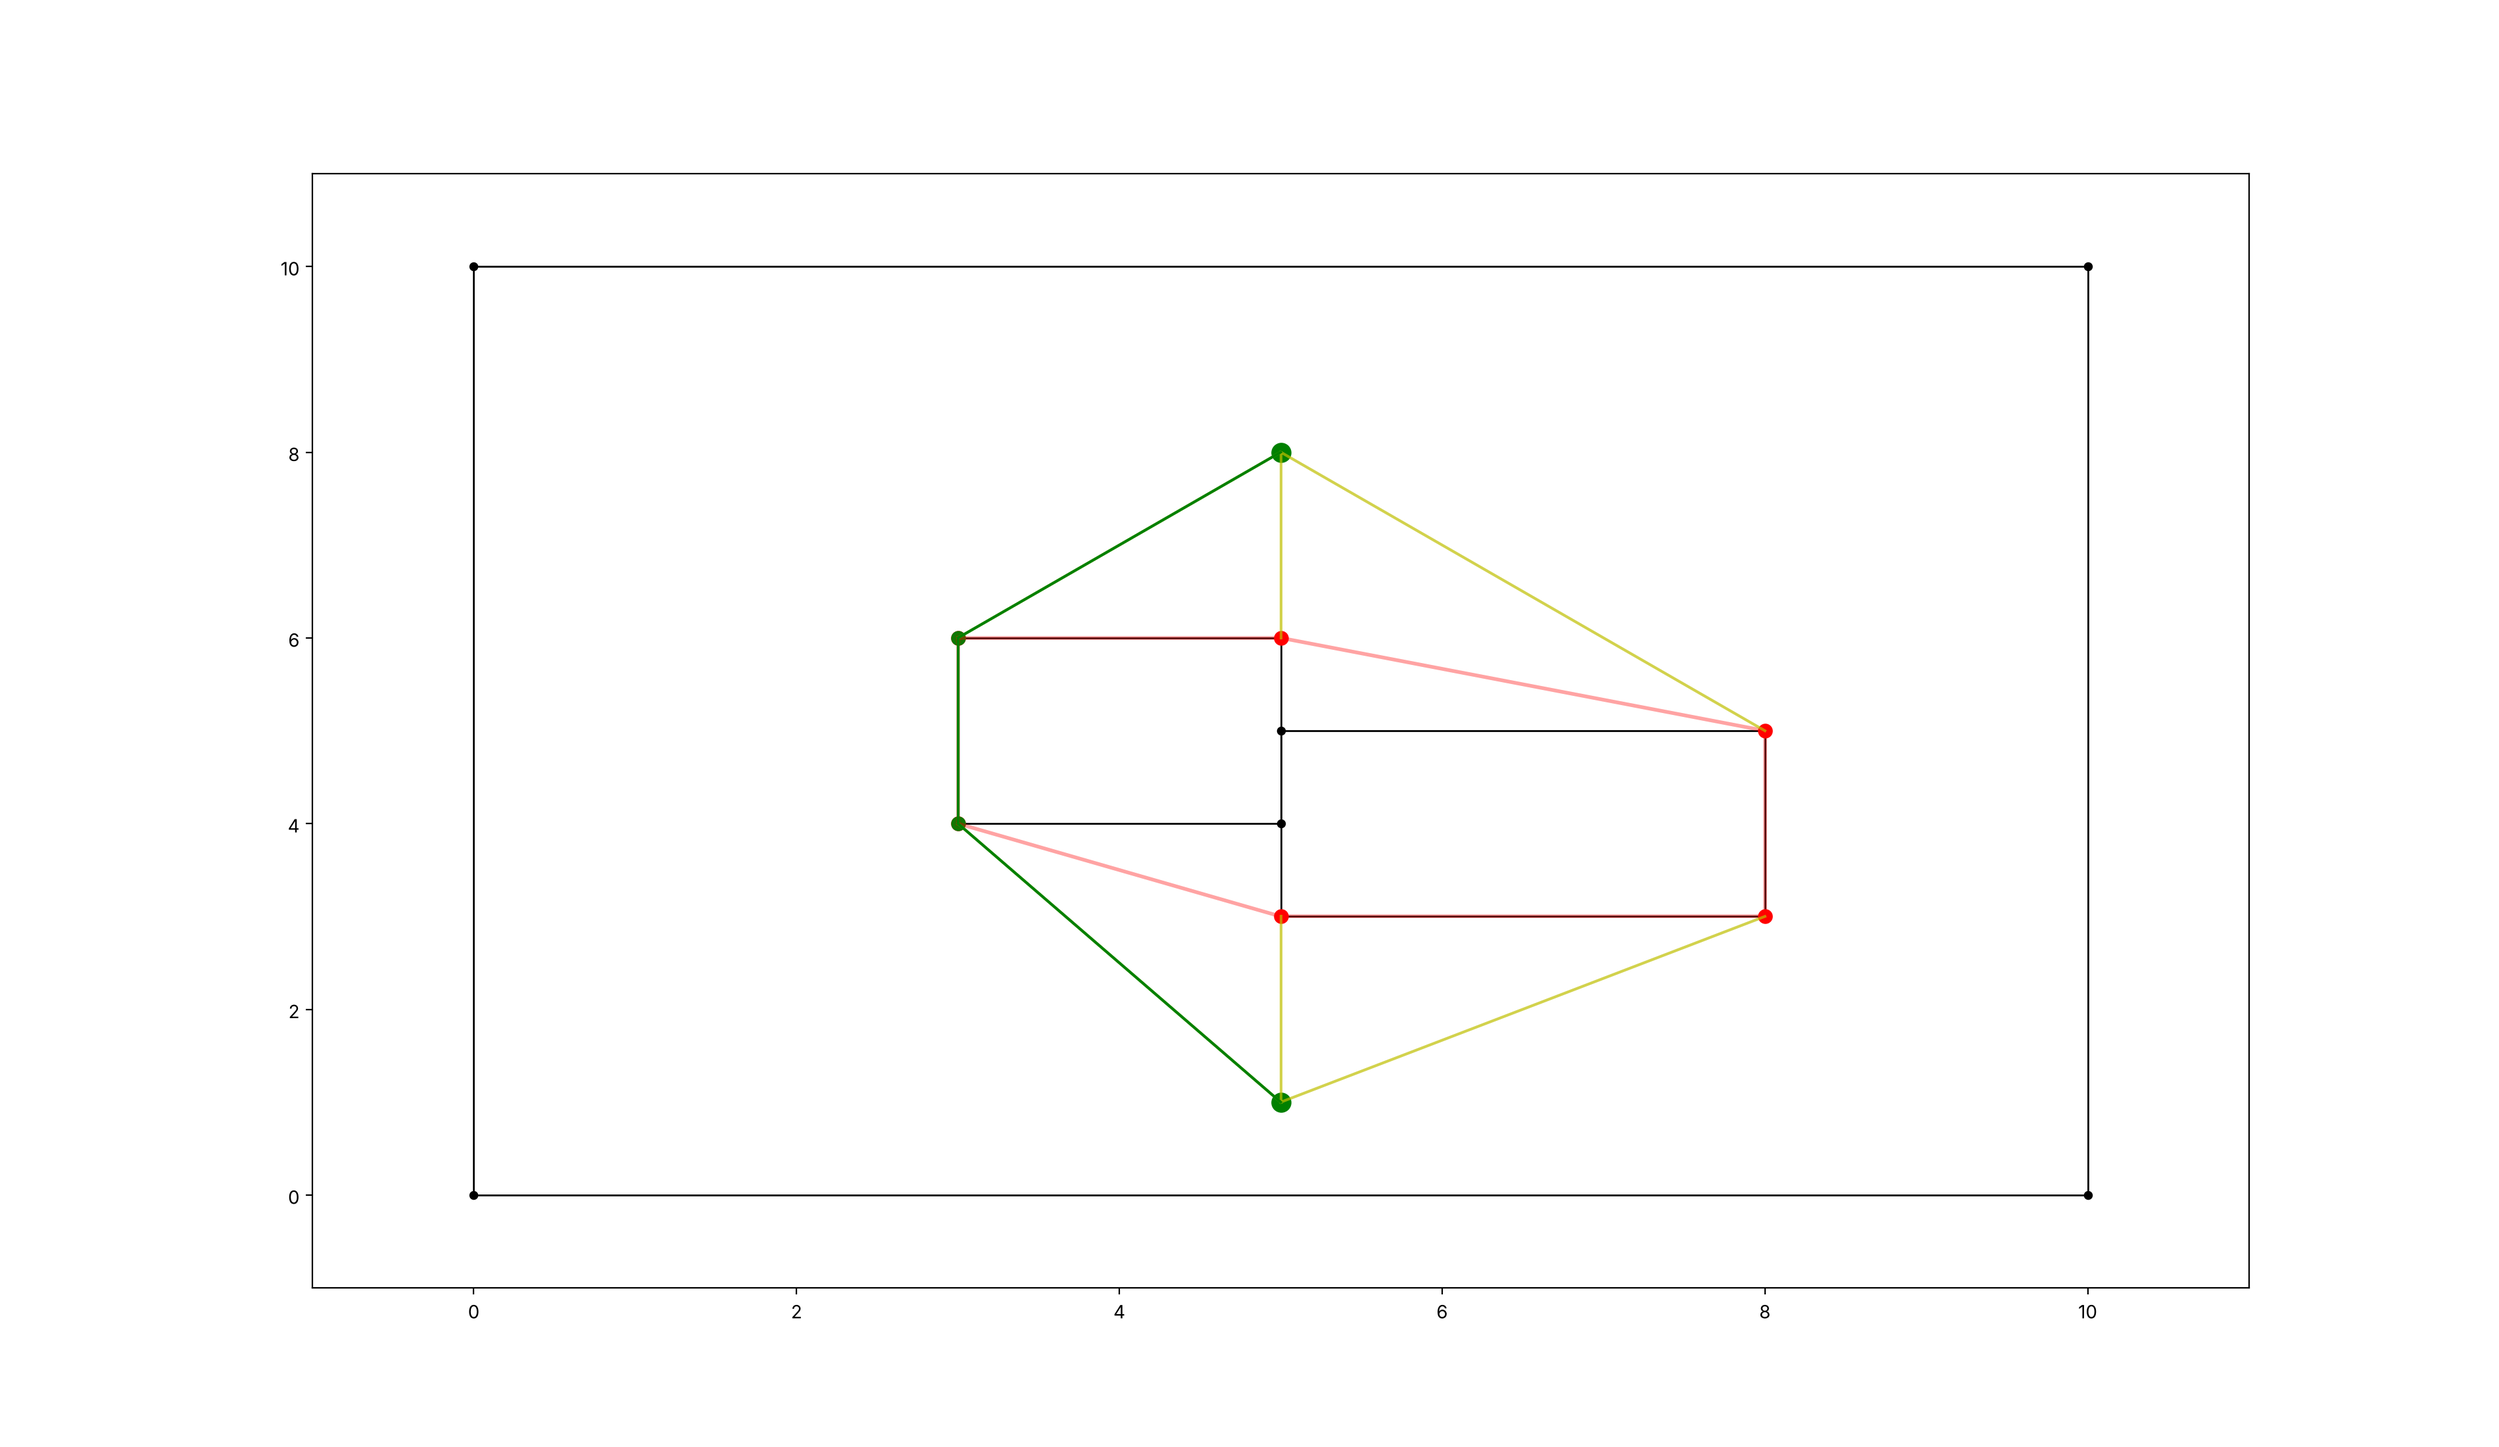
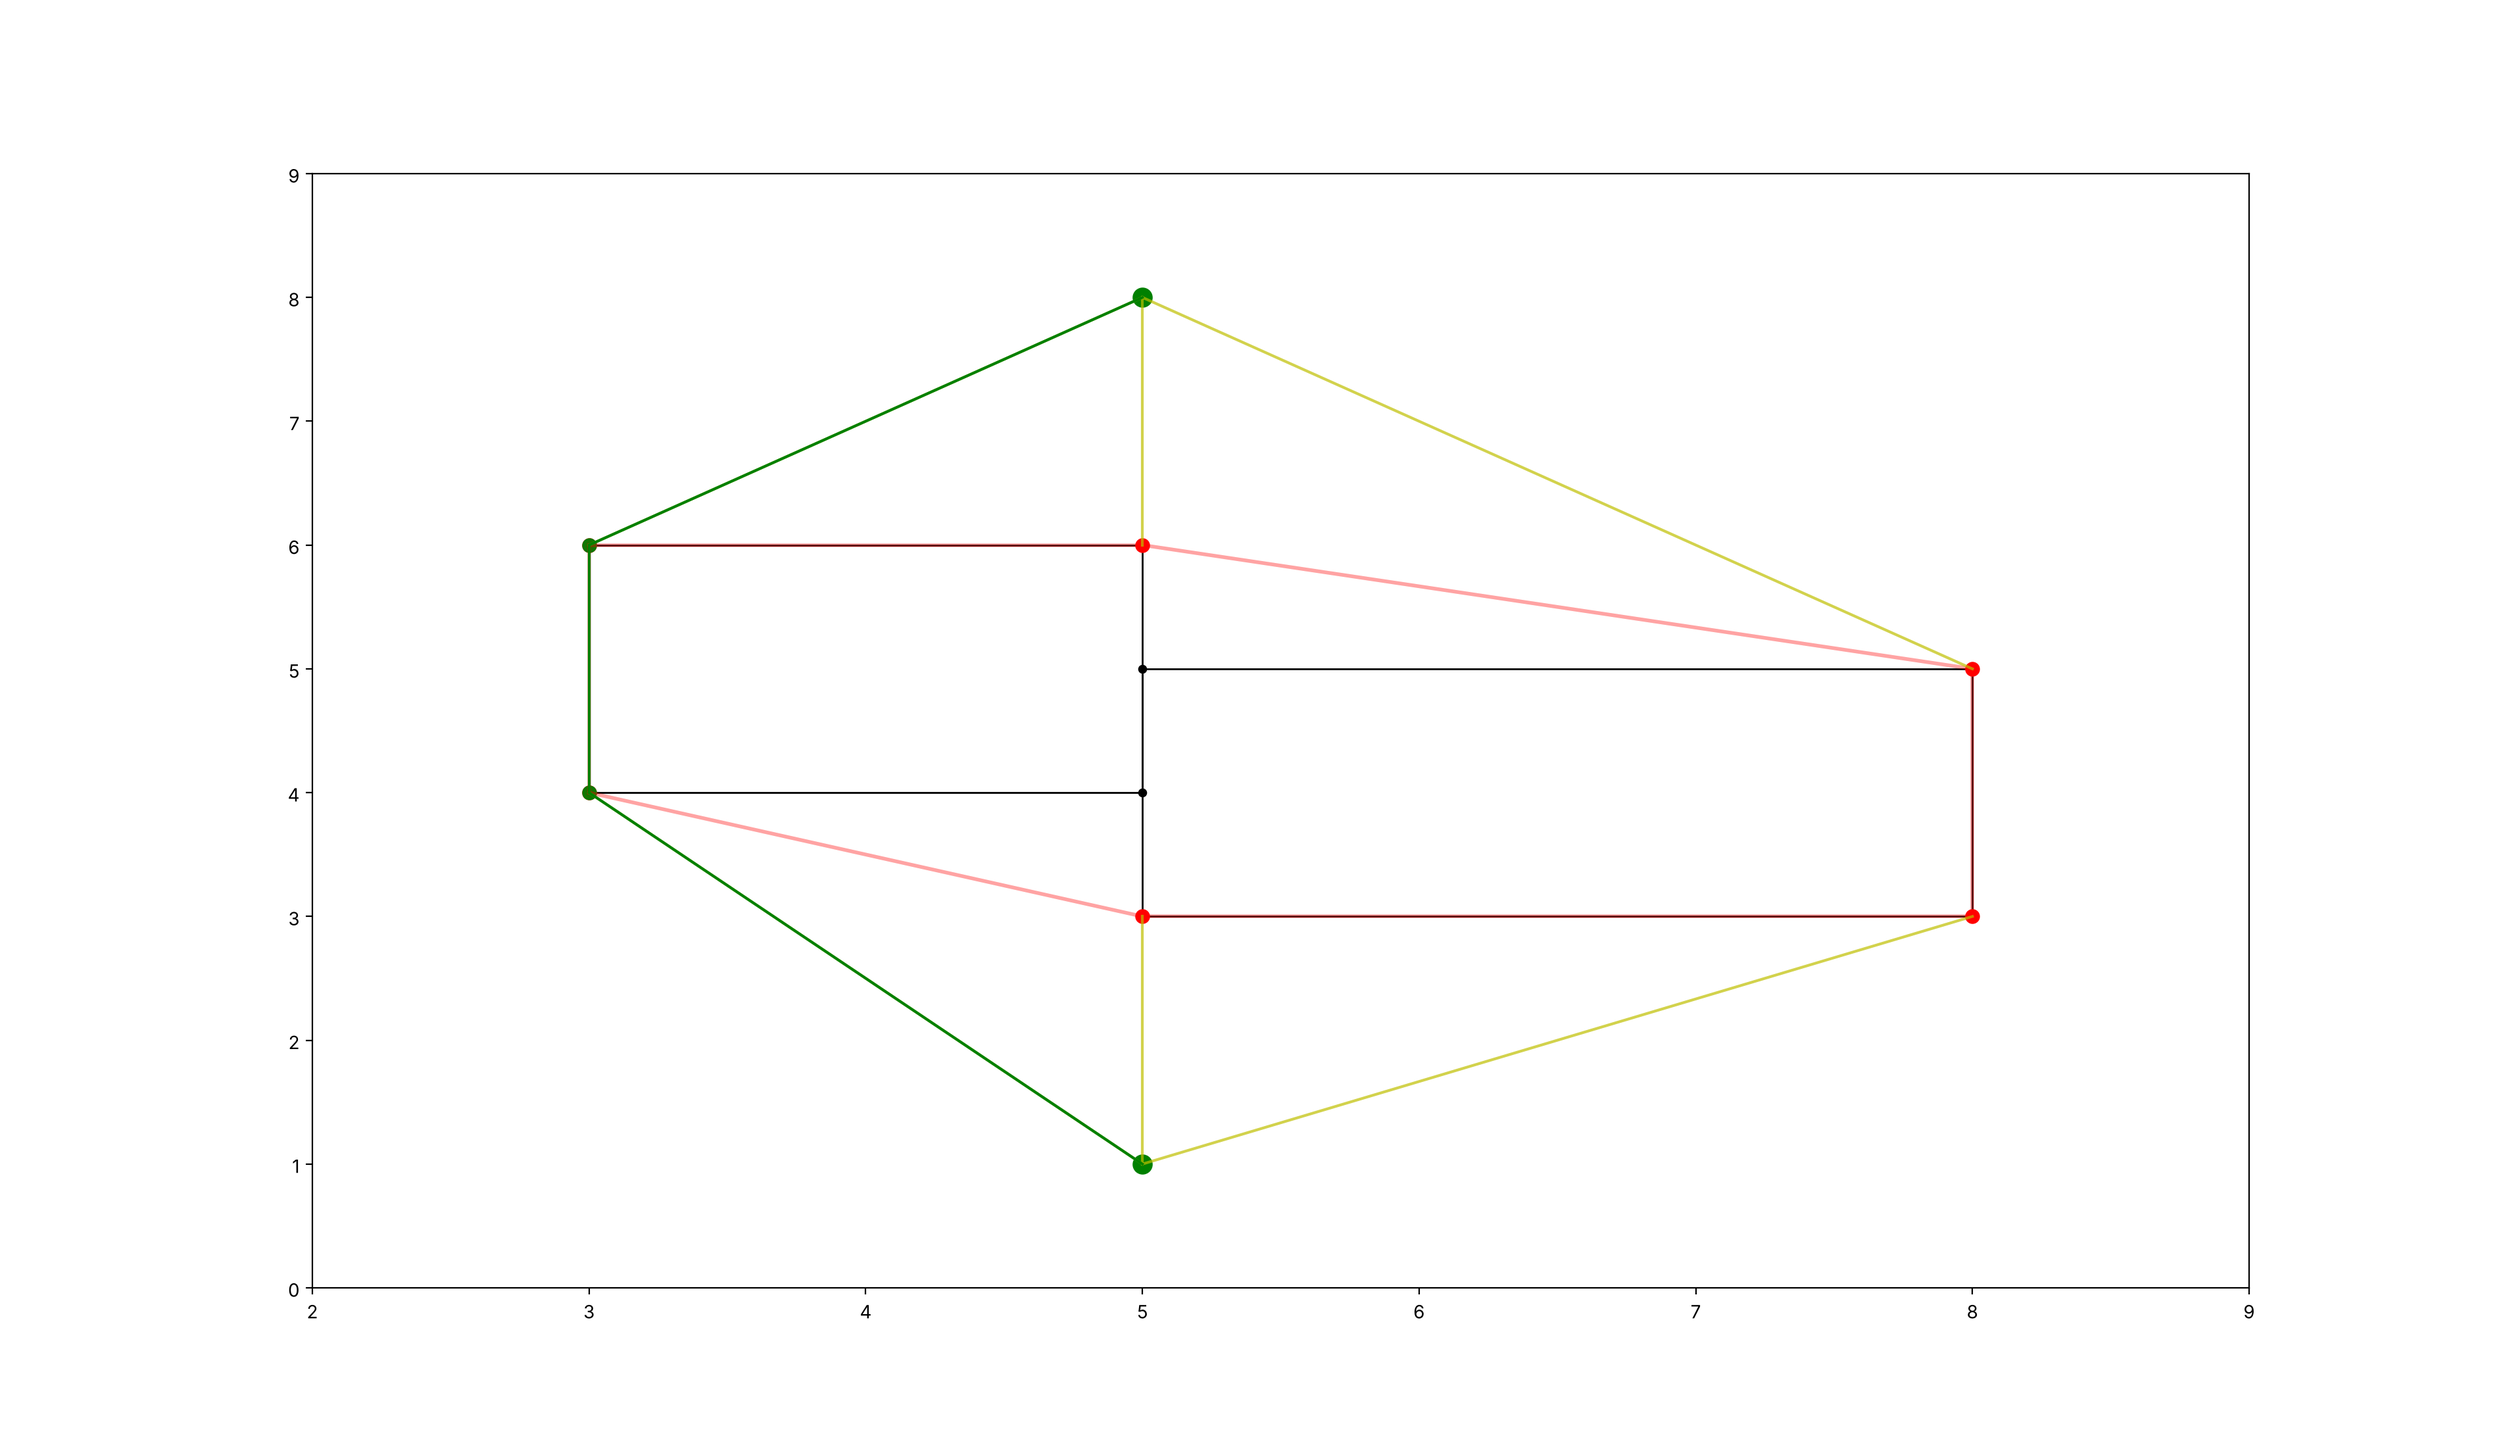
Address review findings, unbounded examples in the docs figures
- free_wedges(): a polygon with only zero-width spikes at a point blocks
  their rays only, also for the boundary (previously the boundary blocked
  every direction at such a point)
- filter_visible(): compute the distances of the check points once
- search(): look up the contact points of start and goal once per query
- one get_neighbour_idxs() (utils_numba) instead of two copies
- changelog: pickles from earlier versions must be recreated
- docs: the figures of touching holes use unbounded environments,
  added a figure for a vertex touching an edge

Claude-Session: https://claude.ai/code/session_01E3ETDsrFwGUoQi6D4QXY5i

diff --git a/extremitypathfinder/contacts.py b/extremitypathfinder/contacts.py
@@ -25,7 +25,7 @@ from dataclasses import dataclass, field
 
 import numpy as np
 
-from extremitypathfinder.utils_numba import _compute_repr_n_dist
+from extremitypathfinder.utils_numba import _compute_repr_n_dist, get_neighbour_idxs
 
 Wedge = tuple[float, float]
 # polygon index, angle representation of the rays to the previous and the next vertex,
@@ -125,13 +125,6 @@ def _find_edges_through_points(
     return edges_through
 
 
-def _neighbours(
-    i: int, vertex_edge_idxs: np.ndarray, edge_vertex_idxs: np.ndarray
-) -> tuple[int, int]:
-    edge_idx1, edge_idx2 = vertex_edge_idxs[i]
-    return int(edge_vertex_idxs[edge_idx1, 0]), int(edge_vertex_idxs[edge_idx2, 1])
-
-
 def _incidences(
     point: np.ndarray,
     vertex_idxs: list[int],
@@ -144,7 +137,9 @@ def _incidences(
     # vertices: the rays point to the previous and to the next vertex
     # edges passing through: the rays point to the start and to the end of the edge
     # in both cases the free side (left of the edges) reaches counter clockwise from the second to the first ray
-    pairs = [_neighbours(i, vertex_edge_idxs, edge_vertex_idxs) for i in vertex_idxs]
+    pairs = [
+        get_neighbour_idxs(i, vertex_edge_idxs, edge_vertex_idxs) for i in vertex_idxs
+    ]
     pairs += [tuple(int(i) for i in edge_vertex_idxs[e]) for e in edge_idxs]
     return [
         (
@@ -203,7 +198,10 @@ def free_wedges(
     blocking_counts = {}
     for polygon_idx in polygon_idxs:
         polygon_counts = {counts[polygon_idx] for counts in arc_counts}
-        if polygon_idx == boundary_polygon_idx:
+        if len(polygon_counts) == 1:
+            # only zero-width spikes: they block their rays only (the arcs are split by the rays)
+            blocking_counts[polygon_idx] = set()
+        elif polygon_idx == boundary_polygon_idx:
             blocking_counts[polygon_idx] = {min(polygon_counts)}
         else:
             blocking_counts[polygon_idx] = polygon_counts - {max(polygon_counts)}
@@ -254,7 +252,9 @@ def compute_contacts(
         if not is_contact:
             # a single vertex with a free angle <= 180 degree:
             # the wedge reaches counter clockwise from the next to the previous vertex
-            prev_idx, next_idx = _neighbours(idx, vertex_edge_idxs, edge_vertex_idxs)
+            prev_idx, next_idx = get_neighbour_idxs(
+                idx, vertex_edge_idxs, edge_vertex_idxs
+            )
             wedge = (_rep(coords[next_idx] - point), _rep(coords[prev_idx] - point))
             contacts.wedges[idx] = [wedge]
             continue
@@ -335,11 +335,11 @@ def filter_visible(
     if len(check_idxs) == 0 or len(visible) == 0:
         return visible
     check_reps = representations[check_idxs]
+    check_dists = distances[check_idxs]
     # Note: a python set is faster than np.isin() for the typical small number of candidates
     check_rep_set = set(check_reps.tolist())
     for candidate in [i for i in visible if representations[i] in check_rep_set]:
         # the points on the line of sight. Note: the points identical to the origin are not passed
-        check_dists = distances[check_idxs]
         on_line = check_reps == representations[candidate]
         passed = np.logical_and(on_line, check_dists < distances[candidate])
         passed = np.logical_and(passed, check_dists > 0.0)

diff --git a/extremitypathfinder/extremitypathfinder.py b/extremitypathfinder/extremitypathfinder.py
@@ -276,12 +276,16 @@ class PolygonEnvironment:
     ) -> set[int]:
         """finds the candidates visible from a query point (start or goal)
 
-        :param query_contacts: the contact points of the query points lying on a contact point
+        :param query_contacts: the contact points of the query points lying on a contact point.
+            Computed when not given.
         """
         # Note: points with equal coordinates should not be considered visible (will be merged later)
         candidates = {i for i in candidates if vert_idx2dist[i] != 0.0}
         edge_idxs2check = set(range(self.nr_edges))
-        contact = c.contact_at(coords[origin], self.coords, self.contacts)
+        if query_contacts is None:
+            contact = c.contact_at(coords[origin], self.coords, self.contacts)
+        else:
+            contact = query_contacts.get(origin)
         if contact is not None:
             # a query point on a contact point may leave through any of its free wedges
             # Note: the edges at the contact all lie outside of the wedges
@@ -379,6 +383,8 @@ class PolygonEnvironment:
         candidate_idxs: set[int] = set(self.graph.nodes)
         # Note: a graph node identical to the start is merged with the start later on.
         # It must not hide the start: the start may leave a contact point through any free wedge
+        #   (of candidates with equal representation and distance only one is kept, cf. find_visible())
+        # Note: the goal is no candidate in the visibility check of the start
         start_identical = np.all(
             self.coords[self.extremity_indices] == coords_start, axis=1
         )
@@ -387,8 +393,15 @@ class PolygonEnvironment:
         )
         candidate_idxs.add(start)
         candidates_goal.add(start)
-        contact_start = c.contact_at(coords_start, self.coords, self.contacts)
-        start_contacts = {} if contact_start is None else {start: contact_start}
+        # the contact points the query points lie on
+        query_contacts = {
+            i: contact
+            for i, contact in (
+                (start, c.contact_at(coords_start, self.coords, self.contacts)),
+                (goal, c.contact_at(coords_goal, self.coords, self.contacts)),
+            )
+            if contact is not None
+        }
         repr_n_dists = utils.cmp_reps_n_distances(origin, coords)
         self.reprs_n_distances[origin] = repr_n_dists
         vert_idx2repr, vert_idx2dist = repr_n_dists
@@ -398,7 +411,7 @@ class PolygonEnvironment:
             coords,
             vert_idx2repr,
             vert_idx2dist,
-            start_contacts,
+            query_contacts,
         )
         if len(visibles_goal) == 0:
             # The goal node does not have any neighbours. Hence there is not possible path to the goal.
@@ -430,7 +443,12 @@ class PolygonEnvironment:
         self.reprs_n_distances[origin] = repr_n_dists
         vert_idx2repr, vert_idx2dist = repr_n_dists
         visibles_start = self.get_visible_idxs(
-            origin, candidate_idxs, coords, vert_idx2repr, vert_idx2dist
+            origin,
+            candidate_idxs,
+            coords,
+            vert_idx2repr,
+            vert_idx2dist,
+            query_contacts,
         )
 
         if len(visibles_start) == 0:

diff --git a/tests/test_contacts.py b/tests/test_contacts.py
@@ -12,6 +12,7 @@ from math import hypot, sqrt
 import pytest
 
 from extremitypathfinder import PolygonEnvironment
+from extremitypathfinder.contacts import free_wedges
 from tests.test_geometry_regressions import _assert_valid_path
 
 BOUNDARY = [(0.0, 0.0), (10.0, 0.0), (10.0, 10.0), (0.0, 10.0)]
@@ -302,3 +303,15 @@ def test_contact_with_a_large_free_wedge_is_a_single_graph_node():
     assert environment.all_extremities.count((5.0, 5.0)) == 1
     assert len(environment.all_extremities) == 5
     assert environment.graph.number_of_nodes() == 5
+
+
+@pytest.mark.parametrize("boundary_polygon_idx", [0, None])
+def test_zero_width_spike_blocks_only_its_ray(boundary_polygon_idx):
+    # invalid input (validate=False): the tip of a zero-width spike of polygon 0
+    # (both rays at 1.0) touches the corner of hole 1 (obstacle from 2.5 to 3.5).
+    # The spike blocks its ray only, for the boundary and for a hole alike
+    incidences = [(0, 1.0, 1.0, 5, 5), (1, 2.5, 3.5, 7, 8)]
+
+    wedges = [wedge for wedge, _ in free_wedges(incidences, boundary_polygon_idx)]
+
+    assert wedges == [(1.0, 2.5), (3.5, 1.0)]

diff --git a/extremitypathfinder/utils.py b/extremitypathfinder/utils.py
@@ -28,6 +28,7 @@ from extremitypathfinder.utils_numba import (
     _inside_polygon,
     _lies_behind,
     _no_identical_consequent_vertices,
+    get_neighbour_idxs,
 )
 
 
@@ -238,15 +239,6 @@ def _find_within_range(
 
     idxs_within = {i for i in candidate_idxs if within_filter_func(representations[i])}
     return idxs_within
-
-
-def get_neighbour_idxs(
-    i: int, vertex_edge_idxs: np.ndarray, edge_vertex_idxs: np.ndarray
-) -> tuple[int, int]:
-    edge_idx1, edge_idx2 = vertex_edge_idxs[i]
-    neigh_idx1 = edge_vertex_idxs[edge_idx1, 0]
-    neigh_idx2 = edge_vertex_idxs[edge_idx2, 1]
-    return neigh_idx1, neigh_idx2
 
 
 def find_visible(

diff --git a/extremitypathfinder/utils_numba.py b/extremitypathfinder/utils_numba.py
@@ -239,6 +239,14 @@ def _lies_behind_inner(p1: np.ndarray, p2: np.ndarray, v: np.ndarray) -> bool:
     return x[1] < 1.0
 
 
+def get_neighbour_idxs(
+    i: int, vertex_edge_idxs: np.ndarray, edge_vertex_idxs: np.ndarray
+) -> tuple[int, int]:
+    """the indices of the previous and the next vertex of a polygon vertex"""
+    edge_idx1, edge_idx2 = vertex_edge_idxs[i]
+    return int(edge_vertex_idxs[edge_idx1, 0]), int(edge_vertex_idxs[edge_idx2, 1])
+
+
 @njit(b1(i8, i8, i8, i8, f8[:, :]), cache=True)
 def _lies_behind(
     idx_p1: int, idx_p2: int, idx_v: int, idx_orig: int, coords: np.ndarray

diff --git a/CHANGELOG.rst b/CHANGELOG.rst
@@ -36,6 +36,7 @@ BREAKING: touching obstacles block paths (#24):
 - at most one extremity per point: coincident vertices are no longer merged into one graph node.
   At a contact, a vertex is only an extremity when the free angle there is larger than 180 degree
   (e.g. two corners touching at a grid diagonal are no extremities anymore).
+- environments pickled with earlier versions cannot be loaded anymore (new attributes), recreate them
 - ``validate=True`` detects crossings at vertices (#135): a vertex lying on another edge of the same polygon
   with its neighbours on opposite sides, and identical vertices whose corners interleave.
   Collinear overlapping edges within a polygon (zero-width spikes or slits) are rejected as well.

diff --git a/docs/3_about.rst b/docs/3_about.rst
@@ -118,9 +118,16 @@ Obstacles with a tiny gap in between (near-contacts) do not touch, paths can pas
 Contacts computed from rounded coordinates might hence not be detected,
 use identical coordinates for touching polygons.
 
+The following examples have no boundary polygon (unbounded environments), only touching holes:
+
 .. figure:: _static/path_touching_vertices.png
 
     the shortest path goes around the holes, it does not pass through the shared vertex
+
+
+.. figure:: _static/path_touching_vertex_edge.png
+
+    the tip of the triangle touches the edge of the rectangle: the shortest path goes around the triangle
 
 
 .. figure:: _static/path_touching_edges.png
